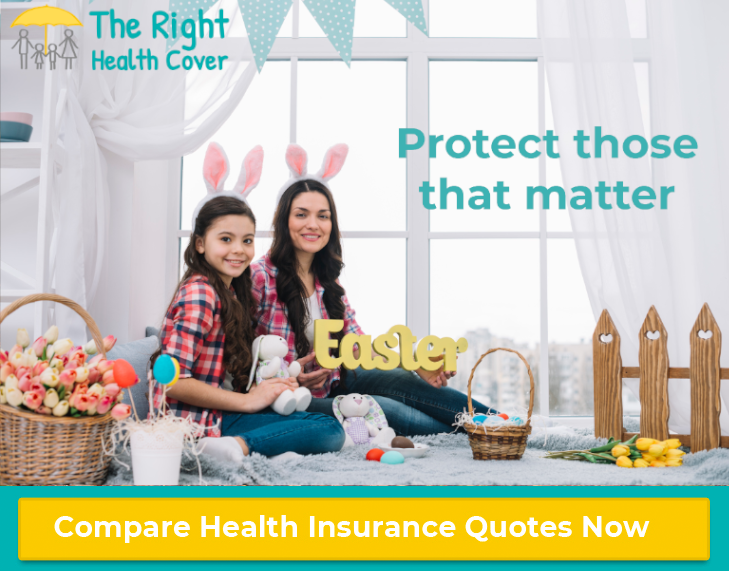
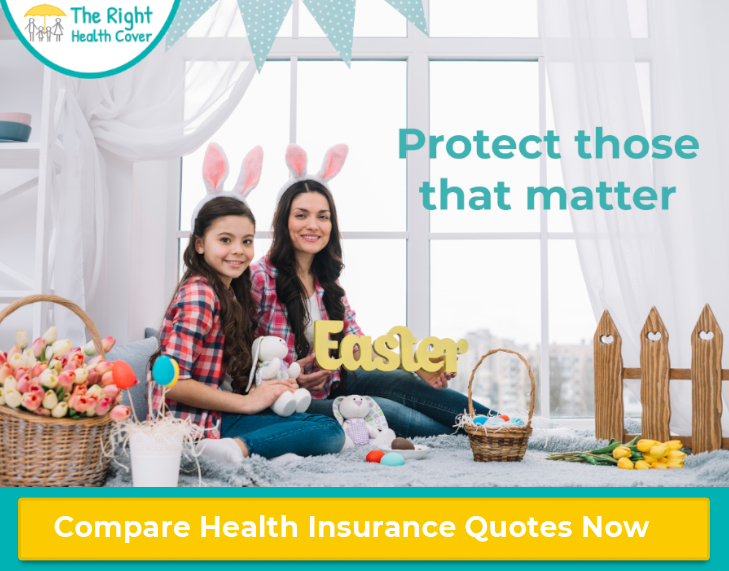
uopdated images

diff --git a/index.html b/index.html
@@ -12,7 +12,7 @@
     <div class="container">
       <!-- Sections -->
       <section id="hero">
-        <img src="images/herohead1.png" alt="banner" />
+        <img src="images/herohead2.png" alt="banner" />
       </section>
       <section id="texts">
         <strong>
